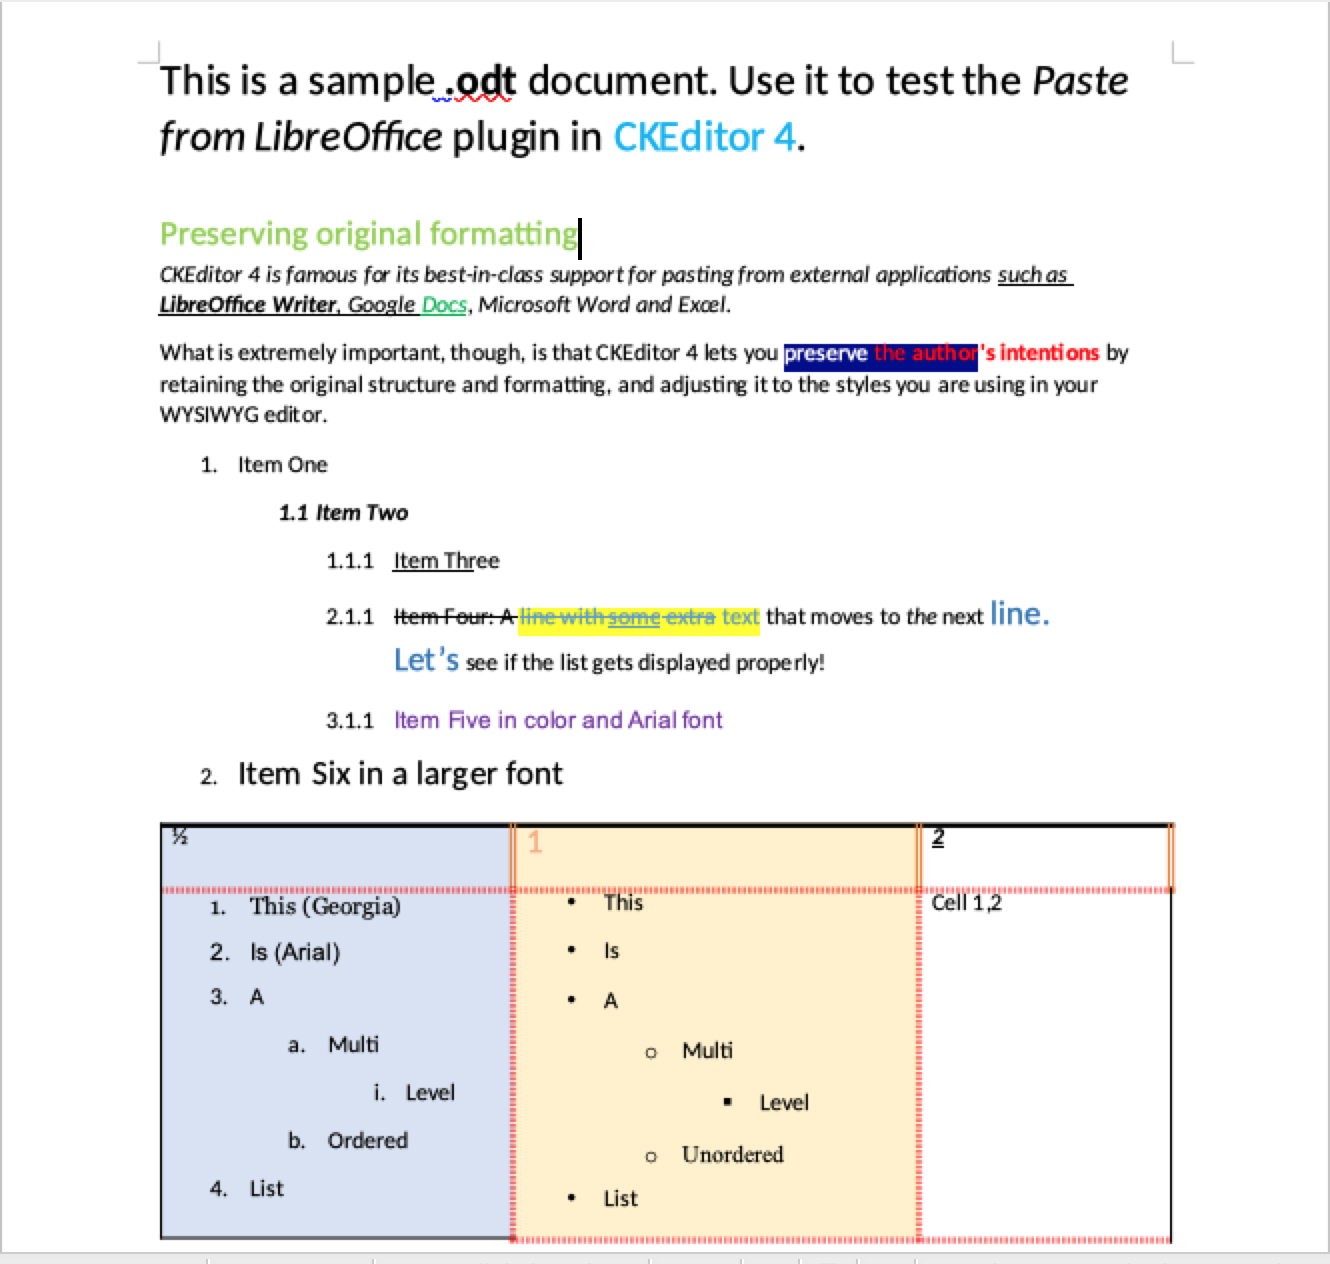
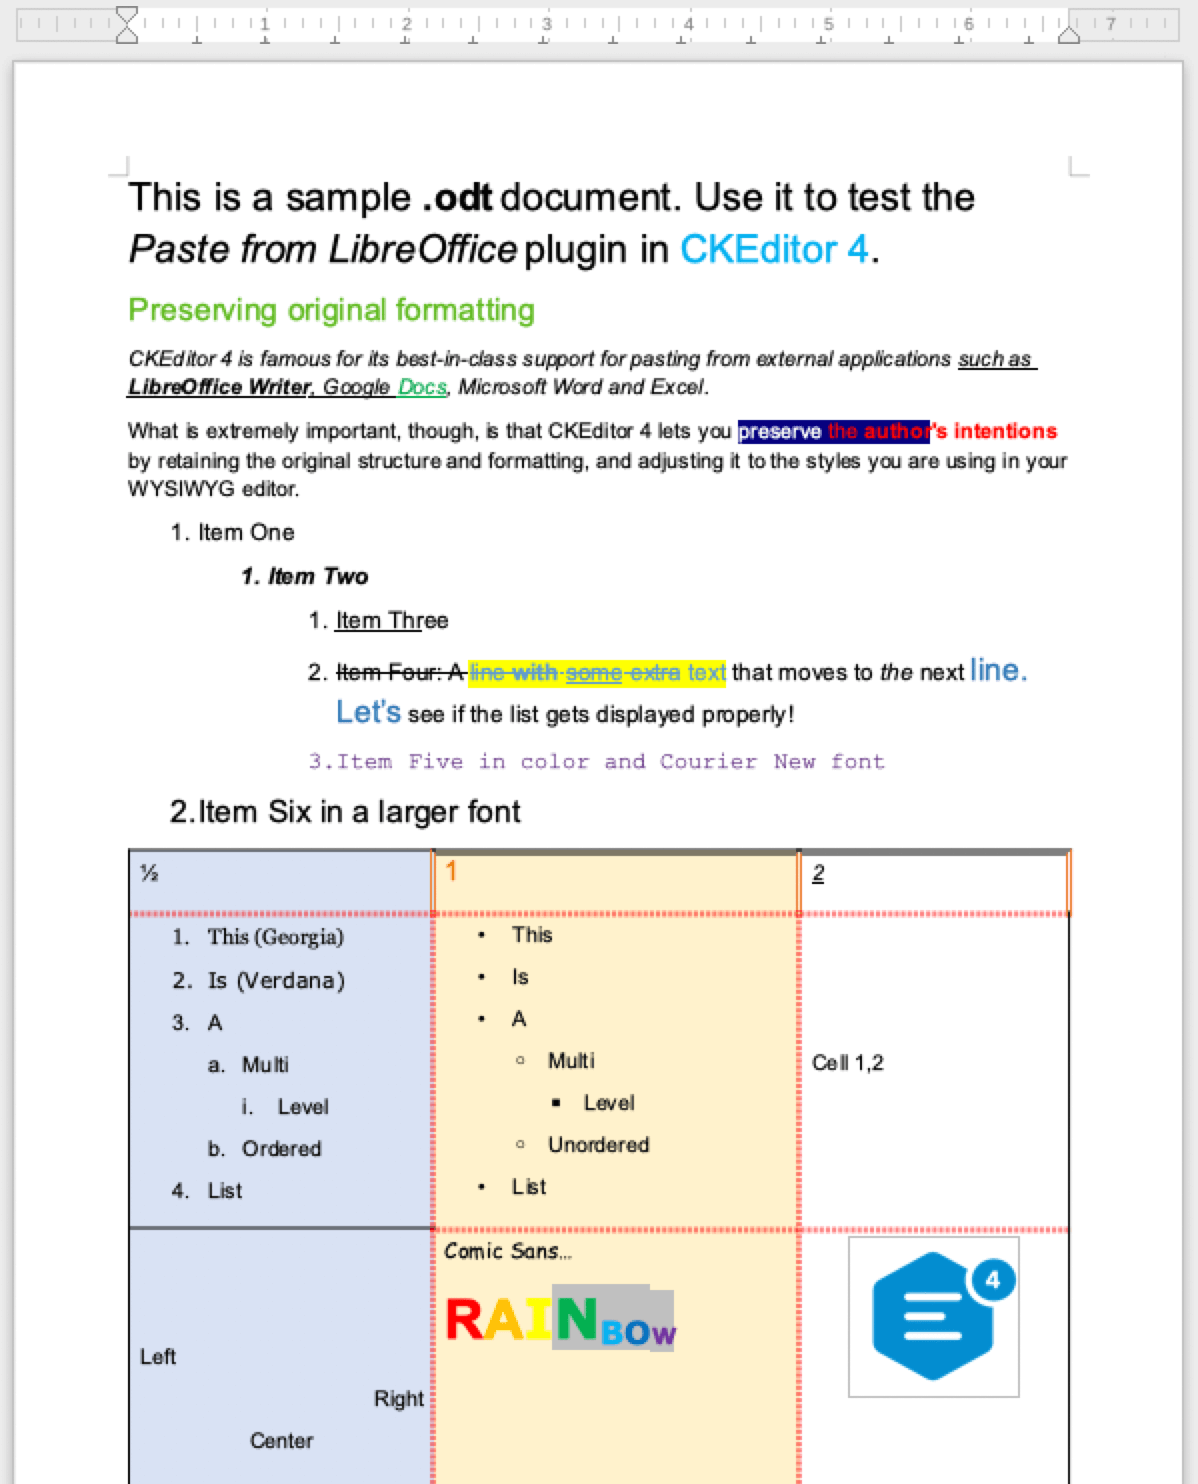
Changed PfLO samples. Updated screenshots.

Changed region(s): [[0.0, 0.0, 1.0, 1.0], [0.2162, 0.8948, 0.3088, 0.9256]]

diff --git a/docs/sdk/examples/pastefromlibreoffice.html b/docs/sdk/examples/pastefromlibreoffice.html
@@ -75,80 +75,77 @@ For licensing, see LICENSE.md or http://ckeditor.com/license.
 		<div class="container" data-sample="1" data-sample-short>
 			<div class="inner-container">
 				<textarea cols="80" id="editor1" name="editor1" rows="10">
-					&lt;h1&gt;&lt;span&gt;&lt;span style="color:#006699"&gt;&lt;span style="font-family:Georgia,serif"&gt;Recognition of Achievement&lt;/span&gt;&lt;/span&gt;&lt;/span&gt;&lt;/h1&gt;
+					&lt;h1 style="text-align:center"&gt;&lt;span&gt;&lt;span style="color:#006699"&gt;&lt;span style="font-family:Georgia,serif"&gt;&lt;span style="font-size:22pt"&gt;Recognition of Achievement&lt;/span&gt;&lt;/span&gt;&lt;/span&gt;&lt;/span&gt;&lt;/h1&gt;
 
-					&lt;p style="text-align:justify"&gt;&lt;span&gt;&lt;span style="color:#333333"&gt;&lt;span style="font-family:Arial,Helvetica,sans-serif"&gt;&lt;span style="font-family:Georgia,serif"&gt;This letter acknowledges the invaluable input &lt;/span&gt;&lt;span style="font-family:Georgia,serif"&gt;&lt;strong&gt;you&lt;/strong&gt;&lt;/span&gt;&lt;span style="font-family:Georgia,serif"&gt;, as a member of our Innovation Team,&nbsp;have provided in the &ldquo;Implement Rich Text Editor&rdquo; project. &lt;/span&gt;&lt;/span&gt;&lt;/span&gt;&lt;/span&gt;&lt;/p&gt;
+					&lt;p&gt;&lt;span style="font-family:Georgia,serif"&gt;This letter acknowledges the invaluable input &lt;strong&gt;you&lt;/strong&gt;, as a member of our Innovation Team, have provided in the &amp;ldquo;Implement Rich Text Editor&amp;rdquo; project.&lt;/span&gt;&lt;/p&gt;
 
-					&lt;p style="text-align:justify"&gt;&lt;span&gt;&lt;span style="color:#333333"&gt;&lt;span style="font-family:Georgia,serif"&gt;The Management would like to hereby thank you for this great accomplishment that was delivered in a timely fashion, up to the highest company standards, and with great results:&lt;/span&gt;&lt;/span&gt;&lt;/span&gt;&lt;/p&gt;
+					&lt;p&gt;&lt;span style="font-family:Georgia,serif"&gt;The Management would like to hereby thank you for this great accomplishment that was delivered in a timely fashion, up to the highest company standards, and with great results:&lt;/span&gt;&lt;/p&gt;
 
-					&lt;table style="width:595px"&gt;
+					&lt;table cellspacing="0" style="border-collapse:collapse; width:100%"&gt;
 						&lt;tbody&gt;
 							&lt;tr&gt;
-								&lt;td style="background-color:#cccccc; border-bottom:1px solid #000000; border-left:1px solid #000000; border-right:1px solid #000000; border-top:1px solid #000000; width:398px"&gt;
-								&lt;p style="text-align:center"&gt;&lt;span style="color:#333333"&gt;&lt;span style="font-family:Georgia,serif"&gt;&lt;strong&gt;Project Phase&lt;/strong&gt;&lt;/span&gt;&lt;/span&gt;&lt;/p&gt;
+								&lt;td style="background-color:#cccccc; border-bottom:1px solid #000000; border-left:1px solid #000000; border-right:none; border-top:1px solid #000000; width:42%"&gt;
+								&lt;p style="text-align:center"&gt;&lt;span style="font-family:Georgia,serif"&gt;&lt;strong&gt;Project Phase&lt;/strong&gt;&lt;/span&gt;&lt;/p&gt;
 								&lt;/td&gt;
-								&lt;td style="background-color:#cccccc; border-bottom:1px solid #000000; border-left:1px solid #000000; border-right:1px solid #000000; border-top:1px solid #000000; width:153px"&gt;
-								&lt;p style="text-align:center"&gt;&lt;span style="color:#333333"&gt;&lt;span style="font-family:Georgia,serif"&gt;&lt;strong&gt;Deadline&lt;/strong&gt;&lt;/span&gt;&lt;/span&gt;&lt;/p&gt;
+								&lt;td style="background-color:#cccccc; border-bottom:1px solid #000000; border-left:1px solid #000000; border-right:none; border-top:1px solid #000000; width:30%"&gt;
+								&lt;p style="text-align:center"&gt;&lt;span style="font-family:Georgia,serif"&gt;&lt;strong&gt;Deadline&lt;/strong&gt;&lt;/span&gt;&lt;/p&gt;
 								&lt;/td&gt;
-								&lt;td style="background-color:#cccccc; border-bottom:1px solid #000000; border-left:1px solid #000000; border-right:1px solid #000000; border-top:1px solid #000000; width:102px"&gt;
-								&lt;p style="text-align:center"&gt;&lt;span style="color:#333333"&gt;&lt;span style="font-family:Georgia,serif"&gt;&lt;strong&gt;Status&lt;/strong&gt;&lt;/span&gt;&lt;/span&gt;&lt;/p&gt;
-								&lt;/td&gt;
-							&lt;/tr&gt;
-							&lt;tr&gt;
-								&lt;td style="border-bottom:1px solid #000000; border-left:1px solid #000000; border-right:1px solid #000000; border-top:1px solid #000000; width:398px"&gt;
-								&lt;p&gt;&lt;span style="color:#333333"&gt;&lt;span style="font-family:Georgia,serif"&gt;Phase 1: Market research&lt;/span&gt;&lt;/span&gt;&lt;/p&gt;
-								&lt;/td&gt;
-								&lt;td style="border-bottom:1px solid #000000; border-left:1px solid #000000; border-right:1px solid #000000; border-top:1px solid #000000; width:153px"&gt;
-								&lt;p style="text-align:center"&gt;&lt;span style="color:#333333"&gt;&lt;span style="font-family:Georgia,serif"&gt;2019-08-15&lt;/span&gt;&lt;/span&gt;&lt;/p&gt;
-								&lt;/td&gt;
-								&lt;td style="border-bottom:1px solid #000000; border-left:1px solid #000000; border-right:1px solid #000000; border-top:1px solid #000000; width:102px"&gt;
-								&lt;p style="text-align:center"&gt;&lt;span style="color:#333333"&gt;&lt;span style="color:#19b159"&gt;✓&lt;/span&gt;&lt;/span&gt;&lt;/p&gt;
+								&lt;td style="background-color:#cccccc; border-bottom:1px solid #000000; border-left:1px solid #000000; border-right:1px solid #000000; border-top:1px solid #000000; width:28%"&gt;
+								&lt;p style="text-align:center"&gt;&lt;span style="font-family:Georgia,serif"&gt;&lt;strong&gt;Status&lt;/strong&gt;&lt;/span&gt;&lt;/p&gt;
 								&lt;/td&gt;
 							&lt;/tr&gt;
 							&lt;tr&gt;
-								&lt;td style="background-color:#eeeeee; border-bottom:1px solid #000000; border-left:1px solid #000000; border-right:1px solid #000000; border-top:1px solid #000000; width:398px"&gt;
-								&lt;p&gt;&lt;span style="color:#333333"&gt;&lt;span style="font-family:Georgia,serif"&gt;Phase 2: Editor implementation&lt;/span&gt;&lt;/span&gt;&lt;/p&gt;
+								&lt;td style="border-bottom:1px solid #000000; border-left:1px solid #000000; border-right:none; border-top:none; width:42%"&gt;
+								&lt;p&gt;&lt;span style="font-family:Georgia,serif"&gt;Phase 1: Market research&lt;/span&gt;&lt;/p&gt;
 								&lt;/td&gt;
-								&lt;td style="background-color:#eeeeee; border-bottom:1px solid #000000; border-left:1px solid #000000; border-right:1px solid #000000; border-top:1px solid #000000; width:153px"&gt;
-								&lt;p style="text-align:center"&gt;&lt;span style="color:#333333"&gt;&lt;span style="font-family:Georgia,serif"&gt;2019-08-20&lt;/span&gt;&lt;/span&gt;&lt;/p&gt;
+								&lt;td style="border-bottom:1px solid #000000; border-left:1px solid #000000; border-right:none; border-top:none; width:30%"&gt;
+								&lt;p style="text-align:center"&gt;&lt;span style="font-family:Georgia,serif"&gt;2019-08-15&lt;/span&gt;&lt;/p&gt;
 								&lt;/td&gt;
-								&lt;td style="background-color:#eeeeee; border-bottom:1px solid #000000; border-left:1px solid #000000; border-right:1px solid #000000; border-top:1px solid #000000; width:102px"&gt;
-								&lt;p style="text-align:center"&gt;&lt;span style="color:#333333"&gt;&lt;span style="color:#19b159"&gt;✓&lt;/span&gt;&lt;/span&gt;&lt;/p&gt;
+								&lt;td style="border-bottom:1px solid #000000; border-left:1px solid #000000; border-right:1px solid #000000; border-top:none; width:28%"&gt;
+								&lt;p style="text-align:center"&gt;&lt;span style="color:#1db35e"&gt;✓&lt;/span&gt;&lt;/p&gt;
 								&lt;/td&gt;
 							&lt;/tr&gt;
 							&lt;tr&gt;
-								&lt;td style="border-bottom:1px solid #000000; border-left:1px solid #000000; border-right:1px solid #000000; border-top:1px solid #000000; width:398px"&gt;
-								&lt;p&gt;&lt;span style="color:#333333"&gt;&lt;span style="font-family:Georgia,serif"&gt;Phase 3: Rollout to Production&lt;/span&gt;&lt;/span&gt;&lt;/p&gt;
+								&lt;td style="background-color:#eeeeee; border-bottom:1px solid #000000; border-left:1px solid #000000; border-right:none; border-top:1px solid #000000; width:42%"&gt;
+								&lt;p&gt;&lt;span style="font-family:Georgia,serif"&gt;Phase 2: Editor implementation&lt;/span&gt;&lt;/p&gt;
 								&lt;/td&gt;
-								&lt;td style="border-bottom:1px solid #000000; border-left:1px solid #000000; border-right:1px solid #000000; border-top:1px solid #000000; width:153px"&gt;
-								&lt;p style="text-align:center"&gt;&lt;span style="color:#333333"&gt;&lt;span style="font-family:Georgia,serif"&gt;2019-08-22&lt;/span&gt;&lt;/span&gt;&lt;/p&gt;
+								&lt;td style="background-color:#eeeeee; border-bottom:1px solid #000000; border-left:1px solid #000000; border-right:none; border-top:1px solid #000000; width:30%"&gt;
+								&lt;p style="text-align:center"&gt;&lt;span style="font-family:Georgia,serif"&gt;2019-08-20&lt;/span&gt;&lt;/p&gt;
 								&lt;/td&gt;
-								&lt;td style="border-bottom:1px solid #000000; border-left:1px solid #000000; border-right:1px solid #000000; border-top:1px solid #000000; width:102px"&gt;
-								&lt;p style="text-align:center"&gt;&lt;span style="color:#333333"&gt;&lt;span style="color:#19b159"&gt;✓&lt;/span&gt;&lt;/span&gt;&lt;/p&gt;
+								&lt;td style="background-color:#eeeeee; border-bottom:1px solid #000000; border-left:1px solid #000000; border-right:1px solid #000000; border-top:1px solid #000000; width:28%"&gt;
+								&lt;p style="text-align:center"&gt;&lt;span style="color:#1db35e"&gt;✓&lt;/span&gt;&lt;/p&gt;
+								&lt;/td&gt;
+							&lt;/tr&gt;
+							&lt;tr&gt;
+								&lt;td style="border-bottom:1px solid #000000; border-left:1px solid #000000; border-right:none; border-top:none; width:42%"&gt;
+								&lt;p&gt;&lt;span style="font-family:Georgia,serif"&gt;Phase 3: Rollout to Production&lt;/span&gt;&lt;/p&gt;
+								&lt;/td&gt;
+								&lt;td style="border-bottom:1px solid #000000; border-left:1px solid #000000; border-right:none; border-top:none; width:30%"&gt;
+								&lt;p style="text-align:center"&gt;&lt;span style="font-family:Georgia,serif"&gt;2019-08-22&lt;/span&gt;&lt;/p&gt;
+								&lt;/td&gt;
+								&lt;td style="border-bottom:1px solid #000000; border-left:1px solid #000000; border-right:1px solid #000000; border-top:none; width:28%"&gt;
+								&lt;p style="text-align:center"&gt;&lt;span style="color:#1db35e"&gt;✓&lt;/span&gt;&lt;/p&gt;
 								&lt;/td&gt;
 							&lt;/tr&gt;
 						&lt;/tbody&gt;
 					&lt;/table&gt;
 
-					&lt;p style="text-align:justify"&gt;&lt;br /&gt;
-					&nbsp;&lt;/p&gt;
+					&lt;p&gt;&lt;span style="font-family:Georgia,serif"&gt;The project that you participated in is of utmost importance to the future success of our platform. We are very proud to share that the CKEditor implementation was a huge success and brought congratulations from both the key Stakeholders and the Customers:&lt;/span&gt;&lt;/p&gt;
 
-					&lt;p style="text-align:justify"&gt;&lt;span&gt;&lt;span style="color:#333333"&gt;&lt;span style="font-family:Georgia,serif"&gt;The project that you participated in is of utmost importance to the future success of our platform. We are very proud to share that the CKEditor implementation was a huge success and brought congratulations from both the key Stakeholders and the Customers:&lt;/span&gt;&lt;/span&gt;&lt;/span&gt;&lt;/p&gt;
+					&lt;p style="text-align:center"&gt;&lt;span style="font-family:Georgia,serif"&gt;&lt;em&gt;This new editor has totally changed our content creation experience!&lt;/em&gt;&lt;/span&gt;&lt;/p&gt;
 
-					&lt;p style="text-align:center"&gt;&lt;span&gt;&lt;span style="color:#333333"&gt;&lt;span style="font-family:Georgia,serif"&gt;&lt;em&gt;This new editor has totally changed our content creation experience!&lt;/em&gt;&lt;/span&gt;&lt;/span&gt;&lt;/span&gt;&lt;/p&gt;
+					&lt;p style="text-align:center"&gt;&amp;mdash; &lt;span style="font-family:Georgia,serif"&gt;&lt;em&gt;John F. Smith, CEO, The New Web&lt;/em&gt;&lt;/span&gt;&lt;/p&gt;
 
-					&lt;p style="text-align:center"&gt;&lt;span&gt;&lt;span style="color:#333333"&gt;&mdash; &lt;span style="font-family:Georgia,serif"&gt;&lt;em&gt;John F. Smith, CEO, The New Web&lt;/em&gt;&lt;/span&gt;&lt;/span&gt;&lt;/span&gt;&lt;/p&gt;
+					&lt;p&gt;&lt;span style="font-family:Georgia,serif"&gt;This letter recognizes that much of our success is directly attributable to your efforts. You deserve to be proud of your achievement. May your future efforts be equally successful and rewarding.&lt;/span&gt;&lt;/p&gt;
 
-					&lt;p style="text-align:justify"&gt;&lt;span&gt;&lt;span style="color:#333333"&gt;&lt;span style="font-family:Georgia,serif"&gt;This letter recognizes that much of our success is directly attributable to your efforts. You deserve to be proud of your achievement. May your future efforts be equally successful and rewarding.&lt;/span&gt;&lt;/span&gt;&lt;/span&gt;&lt;/p&gt;
-
-					&lt;p style="text-align:justify"&gt;&lt;span&gt;&lt;span style="color:#333333"&gt;&lt;span style="font-family:Georgia,serif"&gt;I am sure we will be seeing and hearing a great deal more about your accomplishments in the future. Keep up the good work!&lt;/span&gt;&lt;/span&gt;&lt;/span&gt;&lt;/p&gt;
+					&lt;p&gt;&lt;span style="font-family:Georgia,serif"&gt;I am sure we will be seeing and hearing a great deal more about your accomplishments in the future. Keep up the good work!&lt;/span&gt;&lt;/p&gt;
 
 					&lt;p&gt;&lt;br /&gt;
-					&nbsp;&lt;/p&gt;
+					&amp;nbsp;&lt;/p&gt;
 
-					&lt;p&gt;&lt;span&gt;&lt;span style="color:#333333"&gt;&lt;span style="font-family:Georgia,serif"&gt;Best regards,&lt;/span&gt;&lt;/span&gt;&lt;/span&gt;&lt;/p&gt;
+					&lt;p&gt;&lt;span style="font-family:Georgia,serif"&gt;Best regards,&lt;/span&gt;&lt;/p&gt;
 
-					&lt;p&gt;&lt;span&gt;&lt;span style="color:#333333"&gt;&lt;span style="font-family:Arial,Helvetica,sans-serif"&gt;&lt;span style="font-family:Georgia,serif"&gt;&lt;em&gt;The Management&lt;/em&gt;&lt;/span&gt;&lt;/span&gt;&lt;/span&gt;&lt;/span&gt;&lt;/p&gt;
+					&lt;p&gt;&lt;span style="font-family:Georgia,serif"&gt;&lt;em&gt;The Management&lt;/em&gt;&lt;/span&gt;&lt;/p&gt;
 				</textarea>
 			</div>
 		</div>
@@ -210,7 +207,7 @@ For licensing, see LICENSE.md or http://ckeditor.com/license.
 				//  - About Disallowed Content: https://ckeditor.com/docs/ckeditor4/latest/guide/dev_disallowed_content
 				//  - About Allowed Content: https://ckeditor.com/docs/ckeditor4/latest/guide/dev_allowed_content_rules
 				disallowedContent: 'img{width,height,float}',
-				extraAllowedContent: 'img[width,height,align];span{background}',
+				extraAllowedContent: 'img[width,height,align];span{!background}',
 
 				// Enabling extra plugins, available in the full-all preset: https://ckeditor.com/cke4/presets
 				extraPlugins: 'colorbutton,font,justify,print,tableresize,uploadimage,uploadfile,pastefromword,liststyle,pagebreak',

diff --git a/docs/features/pastefromlibreoffice/README.md b/docs/features/pastefromlibreoffice/README.md
@@ -48,21 +48,19 @@ The Paste from LibreOffice plugin maintains most of LibreOffice Writer text form
 
 The following sample content from a LibreOffice Writer document:
 
-{@img assets/img/pastefromlibreoffice_01.png 804 A sample LibreOffice Writer document.}
+{@img assets/img/pastefromlibreoffice_01.png 599 A sample LibreOffice Writer document.}
 
 will look like below after pasting to CKEditor with the [Paste from LibreOffice](https://ckeditor.com/cke4/addon/pastefromlibreoffice) plugin enabled:
 
-{@img assets/img/pastefromlibreoffice_02.png 952 LibreOffice Writer content pasted into CKEditor 4 WYSIWYG editor.}
+{@img assets/img/pastefromlibreoffice_02.png 956 LibreOffice Writer content pasted into CKEditor 4 WYSIWYG editor.}
 
 Here is another sample with some more complicated formatting and styling as well as an image:
 
-{@img assets/img/pastefromlibreoffice_03.png 748 A sample LibreOffice Writer document with complex formatting and image.}
+{@img assets/img/pastefromlibreoffice_03.png 599 A sample LibreOffice Writer document with complex formatting and image.}
 
 It will look like this after pasting into CKEditor:
 
-{@img assets/img/pastefromlibreoffice_04.png 950 Complex LibreOffice Writer content pasted into CKEditor 4 WYSIWYG editor.}
-
-In the example above you can see that after pasting into CKEditor, the first list has different list item markers than in the LibreOffice Writer document. Although pasting lists with different markers is supported in CKEditor 4 (check the second and third list in the example above), this is a specific case. Such list style is not natively supported by the browser. However, it can be adjusted by using extra CSS rules (see a [related StackOverflow thread](http://stackoverflow.com/questions/4098195/can-ordered-list-produce-result-that-looks-like-1-1-1-2-1-3-instead-of-just-1) how to style it properly).
+{@img assets/img/pastefromlibreoffice_04.png 954 Complex LibreOffice Writer content pasted into CKEditor 4 WYSIWYG editor.}
 
 ## Filters
 
